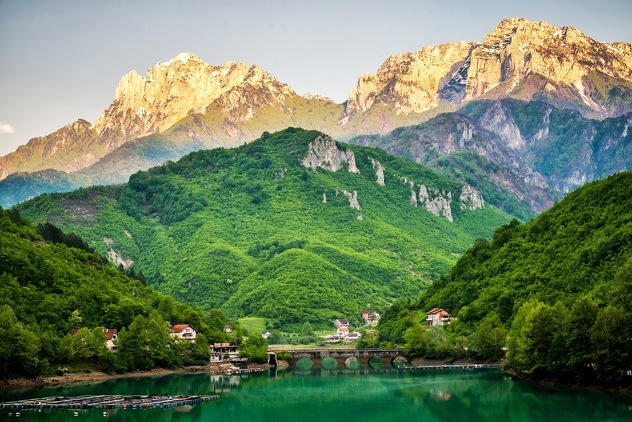
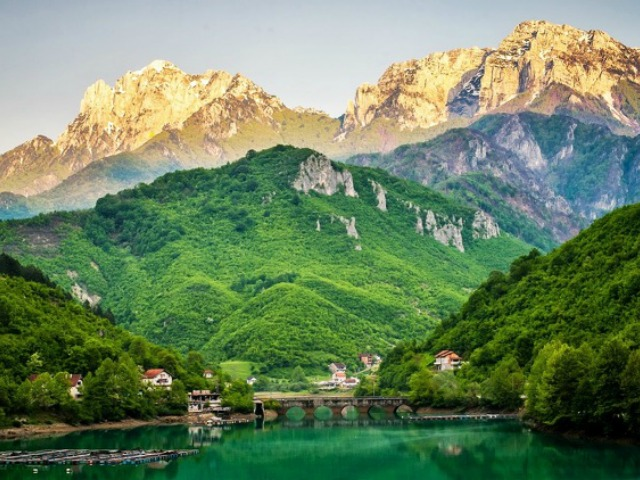
changes for contact form

diff --git a/page-contact.html b/page-contact.html
@@ -1,17 +1,25 @@
 <h3>Contact Us</h3>
 
+
+<a href="#rivers" class="btn btn-info btn-lg">Amazing Lakes and Rivers</a>
 <a href="#main" class="btn btn-danger btn-lg">Home</a>
-<a href="#rivers" class="btn btn-danger btn-lg">Amazing Lakes and Rivers</a>
-<a href="#mountains" class="btn btn-success btn-lg"> Amazing Mountains</a>
+<a href="#mountains" class="btn btn-info btn-lg"> Amazing Mountains</a>
 
 
 
 <div class="contact_form">
 
 <form>  
-     Sex: <input type="radio" ng-model="sex" value="Male"/>Male
-          <input type="radio" ng-model="sex" value="Female"/>Female <br />
-          <br/>
+     Sex: <label class="radio-inline">
+      <input type="radio" ng-model="sex" value="Male">Male
+    </label>
+    <label class="radio-inline">
+        <input type="radio" ng-model="sex" value="Female">Female
+    </label> <br/><br/>
+    
+     
+     
+    
      First Name: <input type="text" ng-model="fname"/> <br />
      Last Name: <input type="text" ng-model="lname"/> <br />
      City: <input type="text" ng-model="city"/> <br />

diff --git a/style.css b/style.css
@@ -100,7 +100,7 @@ body{
 .img-mountain{
     
     float: left;
-    height: 120px;
+    height: auto;
     margin: 13%;
     padding: 5%;
     transition: all 1s ease 0s;
@@ -124,7 +124,7 @@ body{
 
 .img-mountain2{
     float: right;
-    height: 120px;
+    height: auto;
     margin: 13%;
     padding: 5%;
     transition: all 1s ease 0s;
@@ -197,8 +197,9 @@ form{
     color:black;
     margin-top:2%;
     display: inline-block;
-    width:250px
-    
+    width: 26%;
+    text-align: end;
+    margin-right: 11%;
 }
 
 button, input, optgroup, select, textarea {
@@ -206,7 +207,8 @@ button, input, optgroup, select, textarea {
     font: inherit;
     margin: 0.5%;
    
-}
+} 
+
 
 
 /* PAGES

diff --git a/page-home.html b/page-home.html
@@ -3,7 +3,7 @@
 <h2>Home</h2>
 
 <div class="menu_mountain">
-<a href="#main" class="btn btn-danger btn-lg">Home</a>
+<a href="#mountains" class="btn btn-danger btn-lg">Amazing Mountains</a>
 <a href="#rivers" class="btn btn-success btn-lg">Amazing Rivers</a>
 <a href="#contact" class="btn btn-danger btn-lg">Contact</a>
 </div>
